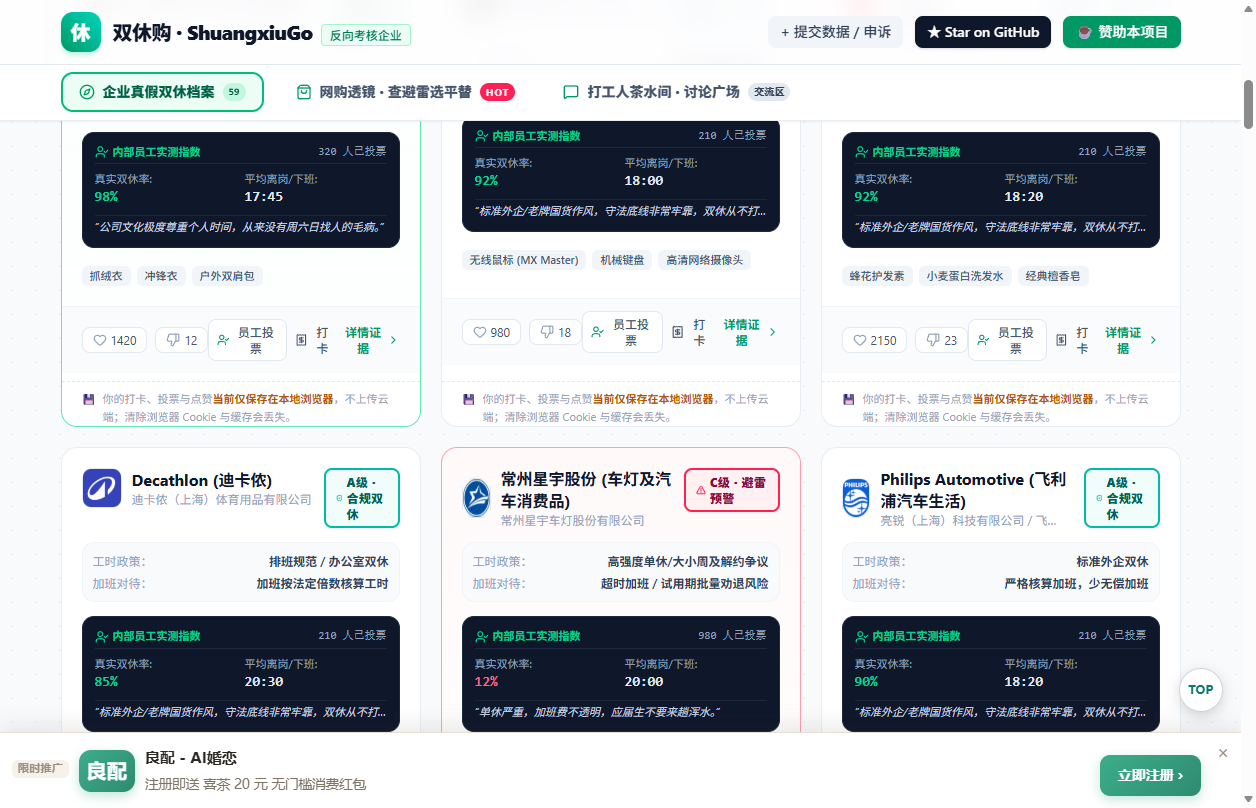
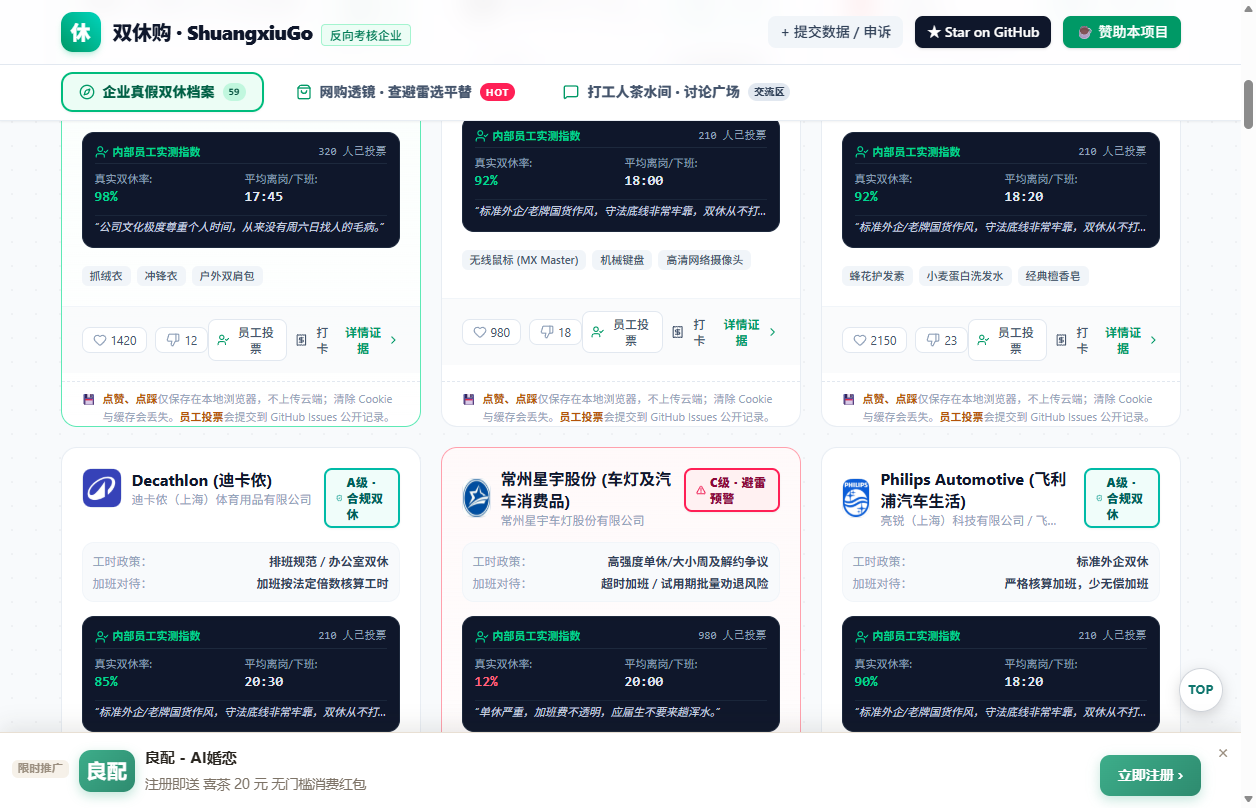
卡片本地存储说明按数据实际去向分述：点赞/点踩仅存本地，员工投票提交到 GitHub Issues 公开记录；缓存版本 v16→v17

Changed region(s): [[0.3726, 0.4641, 0.621, 0.526], [0.6831, 0.4641, 0.9315, 0.526], [0.0621, 0.4641, 0.3105, 0.526]]

diff --git a/custom-card-actions.js b/custom-card-actions.js
@@ -1540,10 +1540,12 @@
      内置卡和自定义卡是同一套结构，一条链路天然全覆盖。
      React 重渲染会把整个卡片换掉，所以加 MutationObserver 补挂（复用外层 observer）。 */
 
+  // 文案按数据实际去向分述（站长 2026-10-19 更正）：
+  // 点赞/点踩只写 localStorage；员工投票是跳 GitHub Issues 公开提交，两者不能混为一谈。
   var LOCAL_NOTE_HTML =
     '<span aria-hidden="true">💾</span>' +
-    '<span>你的打卡、投票与点赞<b>当前仅保存在本地浏览器</b>，不上传云端；' +
-    '清除浏览器 Cookie 与缓存会丢失。</span>';
+    '<span><b>点赞、点踩</b>仅保存在本地浏览器，不上传云端；' +
+    '清除 Cookie 与缓存会丢失。<b>员工投票</b>会提交到 GitHub Issues 公开记录。</span>';
 
   function cardRootOf(btn) {
     // 按钮 → div.flex.items-center.gap-2 → div.px-5.py-3 → 卡片根

diff --git a/index.html b/index.html
@@ -1251,7 +1251,7 @@
   <!-- 打卡引导 + 自定义卡片按钮修复：
        1) 顶部「打卡并生成小票」改为弹窗，引导去品牌档案卡打卡（原来默认给第一家品牌打卡，会误导）
        2) 自定义品牌卡（DOM 克隆）没有 React onClick，补上「打卡」「详情证据」功能 -->
-  <script src="./custom-card-actions.js?v=16"></script>
+  <script src="./custom-card-actions.js?v=17"></script>
   <!-- 为劳工友好弹窗追加第三个按钮「事实核查」，指向 jiahua-fact-check.html -->
   <script src="./factcheck-button.js?v=1"></script>
   <!-- 拼音 / 首字母模糊搜索联想。
